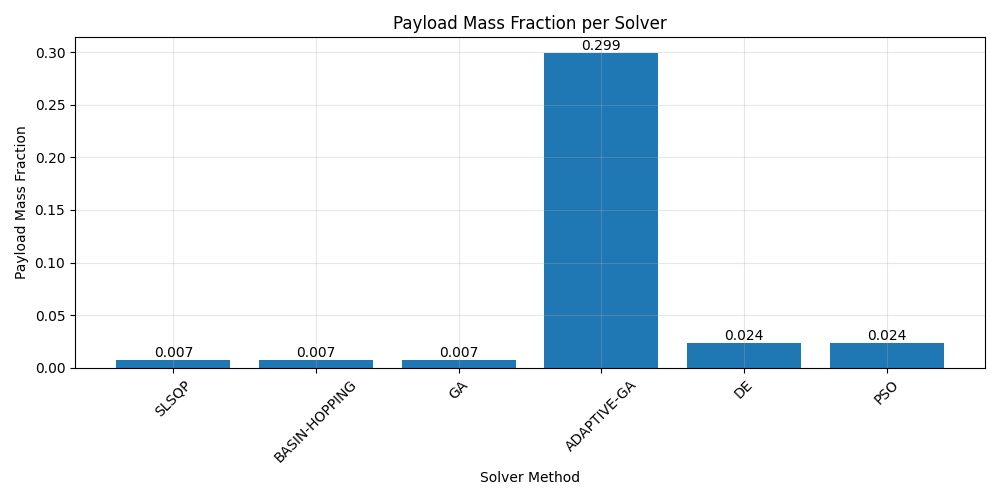
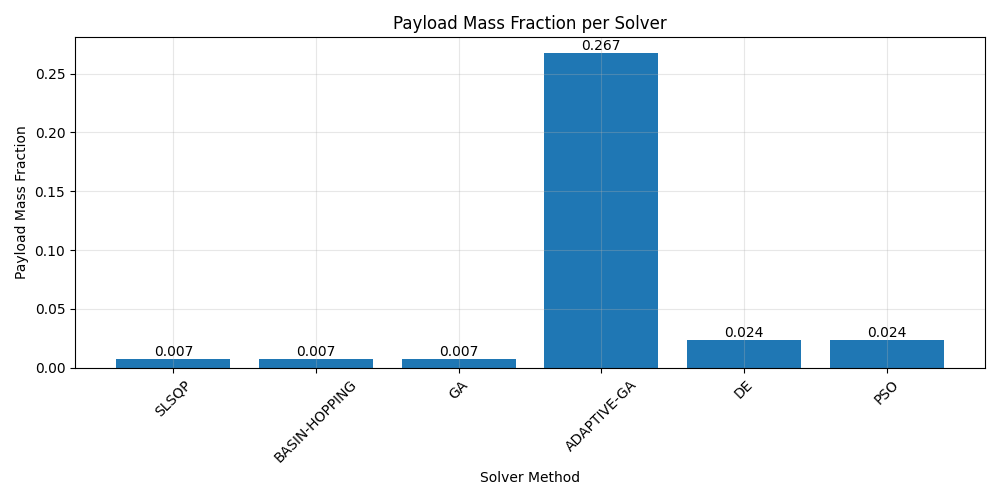
fix errors and tests

diff --git a/Stage_Opt/output/optimization_report.tex b/Stage_Opt/output/optimization_report.tex
@@ -83,11 +83,11 @@ The following optimization methods were evaluated:
 Method & {Payload Fraction} & {Error} & {Time (\si{\second})} \\
 \midrule
 SLSQP        & 0.0073 & 0.0000e+00 & 0.00 \\
-BASIN-HOPPING & 0.0073 & 0.0000e+00 & 1.53 \\
-GA           & 0.0073 & 0.0000e+00 & 3.60 \\
-ADAPTIVE-GA  & 0.2991 & 6.2378e+03 & 0.09 \\
-DE           & 0.0240 & 0.0000e+00 & 0.54 \\
-PSO          & 0.0240 & 0.0000e+00 & 0.58 \\
+BASIN-HOPPING & 0.0073 & 0.0000e+00 & 1.52 \\
+GA           & 0.0073 & 0.0000e+00 & 3.40 \\
+ADAPTIVE-GA  & 0.2674 & 6.1625e+03 & 0.04 \\
+DE           & 0.0240 & 1.8190e-12 & 0.50 \\
+PSO          & 0.0240 & 0.0000e+00 & 0.54 \\
 \bottomrule
 \end{tabular}
 \end{table}
@@ -117,8 +117,8 @@ Stage & {$\Delta V$ (\si{\meter\per\second})} & {Mass Ratio ($\lambda$)} & {Cont
 \toprule
 Stage & {$\Delta V$ (\si{\meter\per\second})} & {Mass Ratio ($\lambda$)} & {Contribution (\%)} \\
 \midrule
-1 & 4650.3 & 0.0340 & 50.0 \\
-2 & 4649.7 & 0.2161 & 50.0 \\
+1 & 4650.1 & 0.0340 & 50.0 \\
+2 & 4649.9 & 0.2161 & 50.0 \\
 \midrule
 \multicolumn{2}{l}{Total $\Delta V$:} & \multicolumn{2}{r}{\SI{9300.0}{\meter\per\second}} \\
 \multicolumn{2}{l}{Payload Fraction:} & \multicolumn{2}{r}{0.0073} \\
@@ -149,11 +149,11 @@ Stage & {$\Delta V$ (\si{\meter\per\second})} & {Mass Ratio ($\lambda$)} & {Cont
 \toprule
 Stage & {$\Delta V$ (\si{\meter\per\second})} & {Mass Ratio ($\lambda$)} & {Contribution (\%)} \\
 \midrule
-1 & 397.5 & 0.7153 & 13.0 \\
-2 & 2664.7 & 0.4182 & 87.0 \\
+1 & 1053.3 & 0.5315 & 33.6 \\
+2 & 2084.2 & 0.5031 & 66.4 \\
 \midrule
-\multicolumn{2}{l}{Total $\Delta V$:} & \multicolumn{2}{r}{\SI{3062.2}{\meter\per\second}} \\
-\multicolumn{2}{l}{Payload Fraction:} & \multicolumn{2}{r}{0.2991} \\
+\multicolumn{2}{l}{Total $\Delta V$:} & \multicolumn{2}{r}{\SI{3137.5}{\meter\per\second}} \\
+\multicolumn{2}{l}{Payload Fraction:} & \multicolumn{2}{r}{0.2674} \\
 \bottomrule
 \end{tabular}
 \end{table}

diff --git a/Stage_Opt/src/reporting/latex.py b/Stage_Opt/src/reporting/latex.py
@@ -48,8 +48,7 @@ def write_results_to_csv(results, stages, output_dir=OUTPUT_DIR):
                         continue
                     total_dv = sum(result['dv'])
                     
-                    # Recalculate mass ratios using correct formula
-                    stage_ratios = []
+                    # Calculate mass ratios using correct formula
                     for i, (dv, stage) in enumerate(zip(result['dv'], stages)):
                         # Correct mass ratio formula: λ = exp(-ΔV/(g₀·ISP)) - ε
                         ratio = np.exp(-dv / (9.81 * stage['ISP'])) - stage['EPSILON']

diff --git a/Stage_Opt/src/optimization/solvers.py b/Stage_Opt/src/optimization/solvers.py
@@ -49,6 +49,11 @@ class RocketOptimizationProblem(Problem):
                 ratio = np.exp(-dv / (self.G0 * isp)) - eps
                 stage_ratios.append(ratio)
             
+            # Store ratios for later use
+            if not hasattr(self, '_last_ratios'):
+                self._last_ratios = {}
+            self._last_ratios[tuple(x[i])] = stage_ratios
+            
             f[i] = -np.prod(stage_ratios)  # Negative because we minimize
             
             # Constraint: total delta-v

diff --git a/Stage_Opt/main.py b/Stage_Opt/main.py
@@ -82,7 +82,7 @@ def main():
         if results:
             plot_results(results)
             try:
-                generate_report(results, stages)
+                generate_report(results, stages, output_dir=OUTPUT_DIR)  # Pass stages here
             except Exception as e:
                 logger.error(f"Error generating report: {str(e)}")
         
